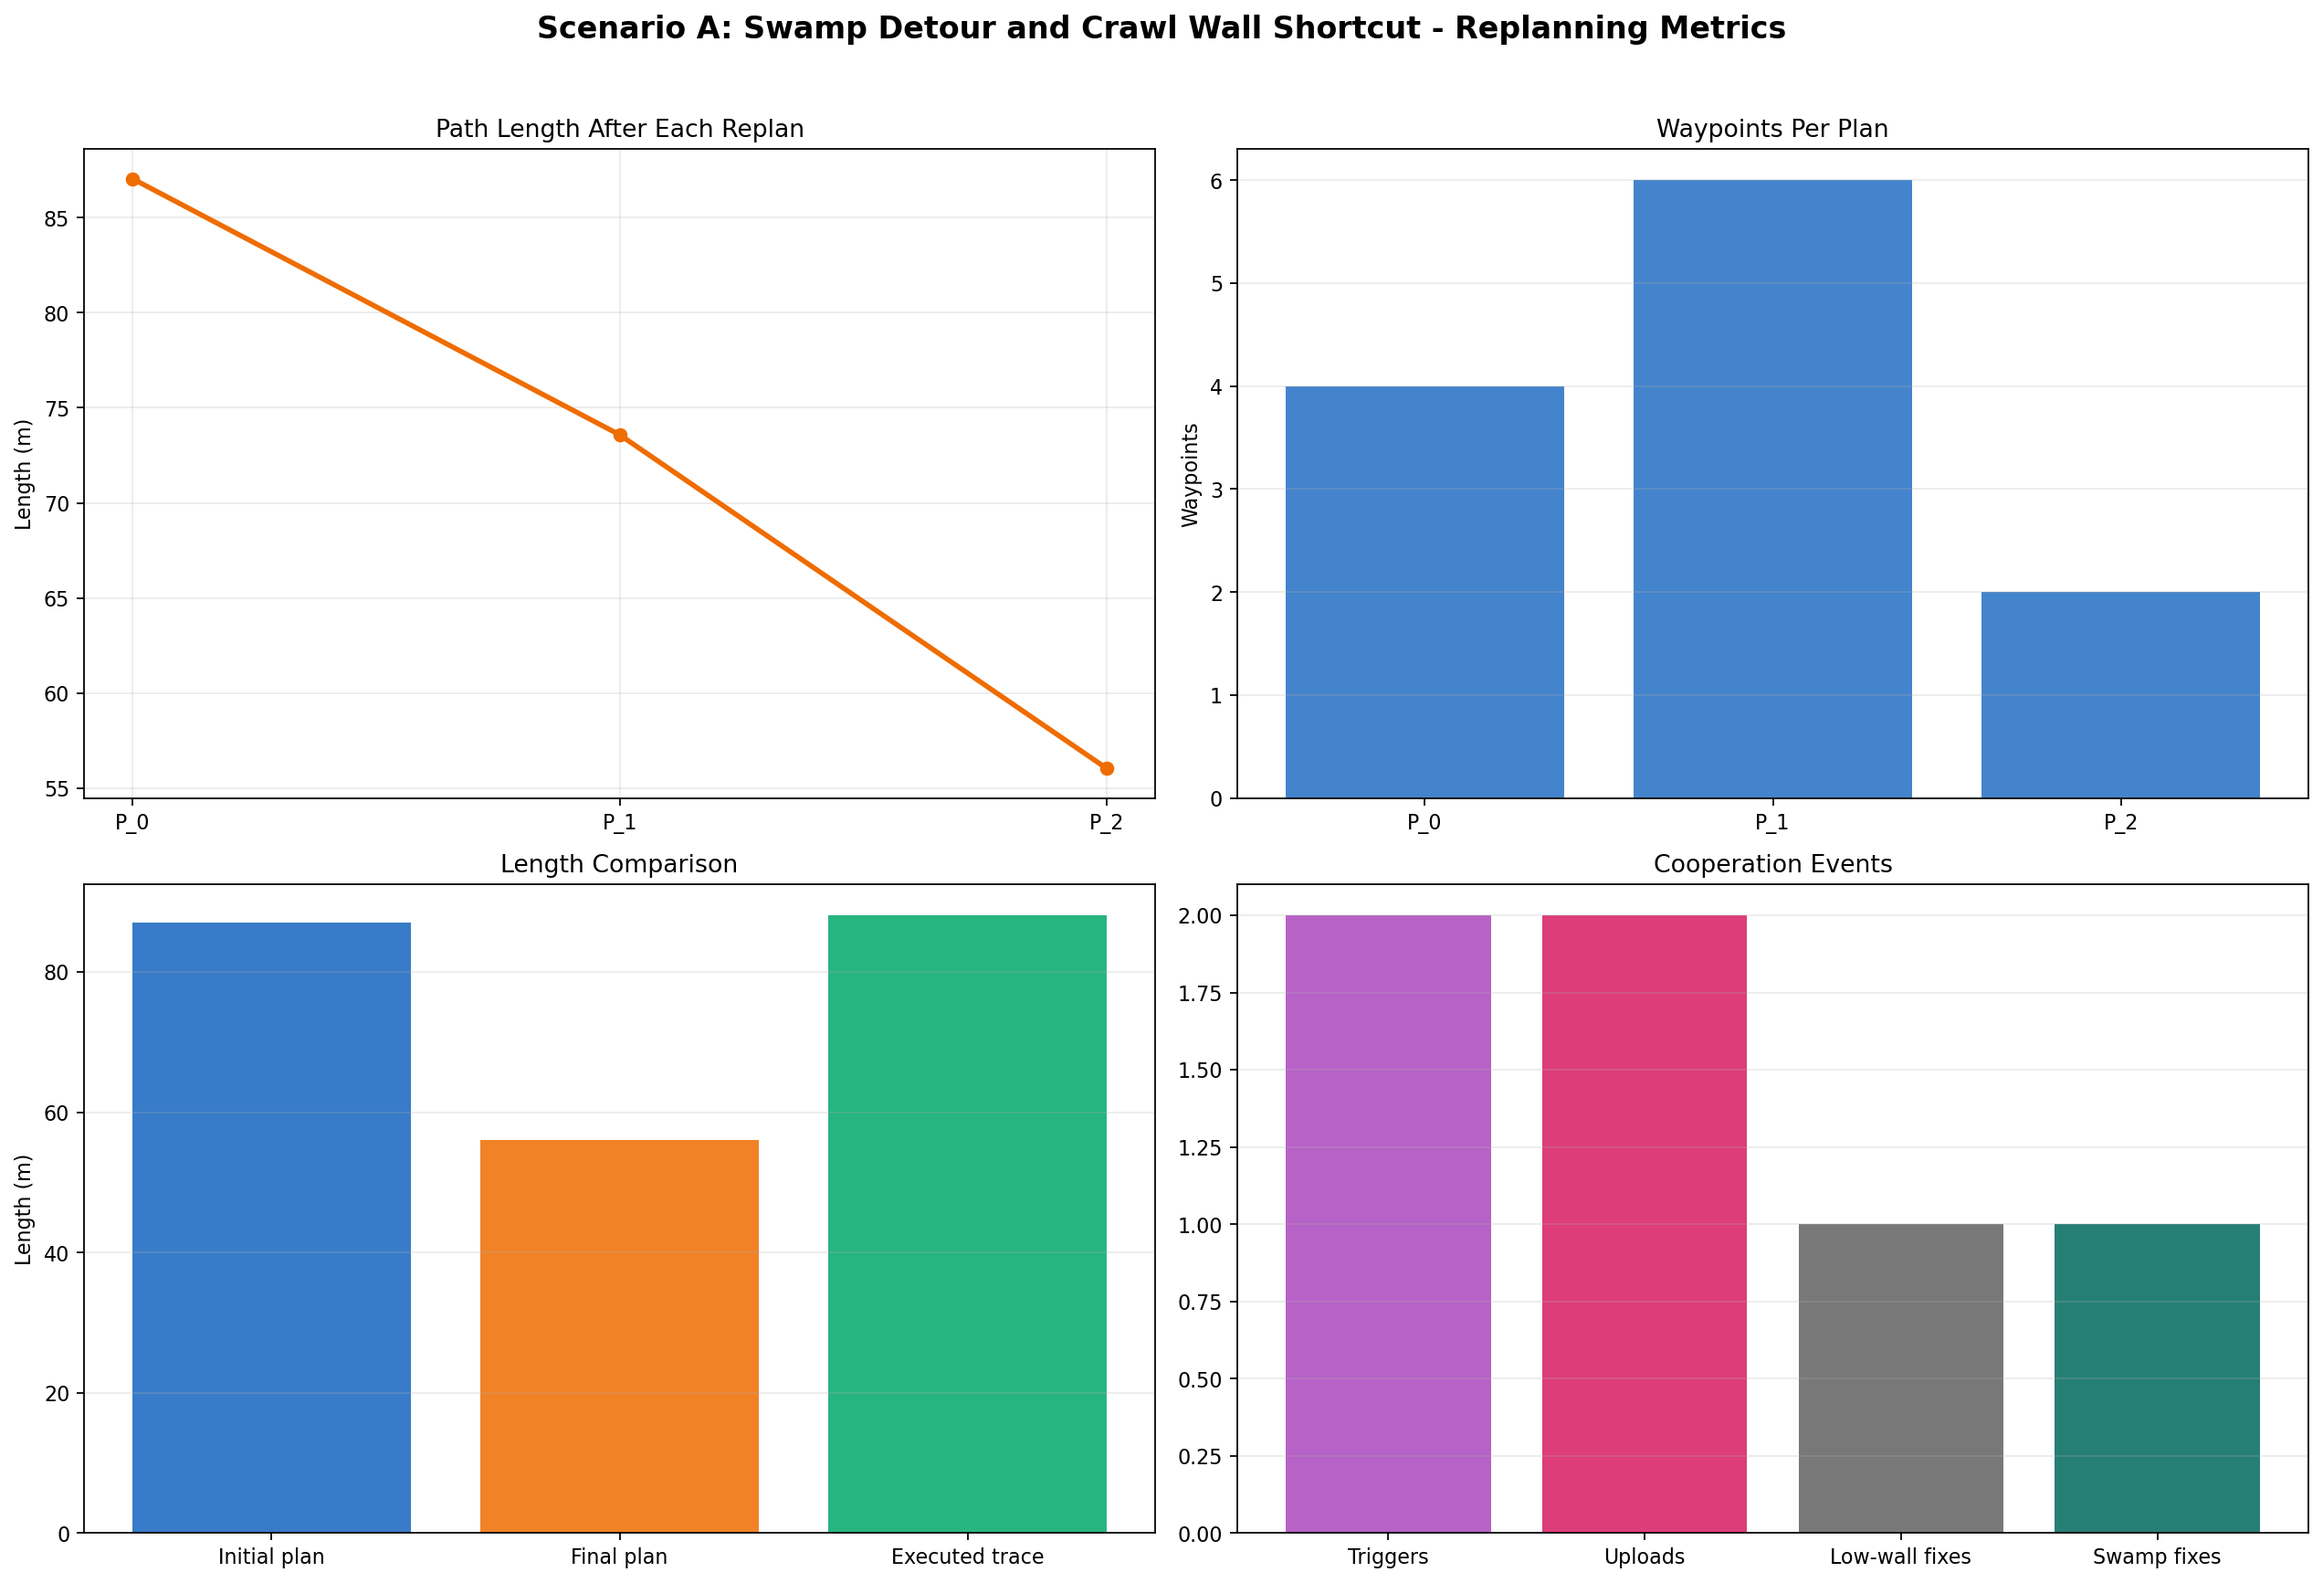
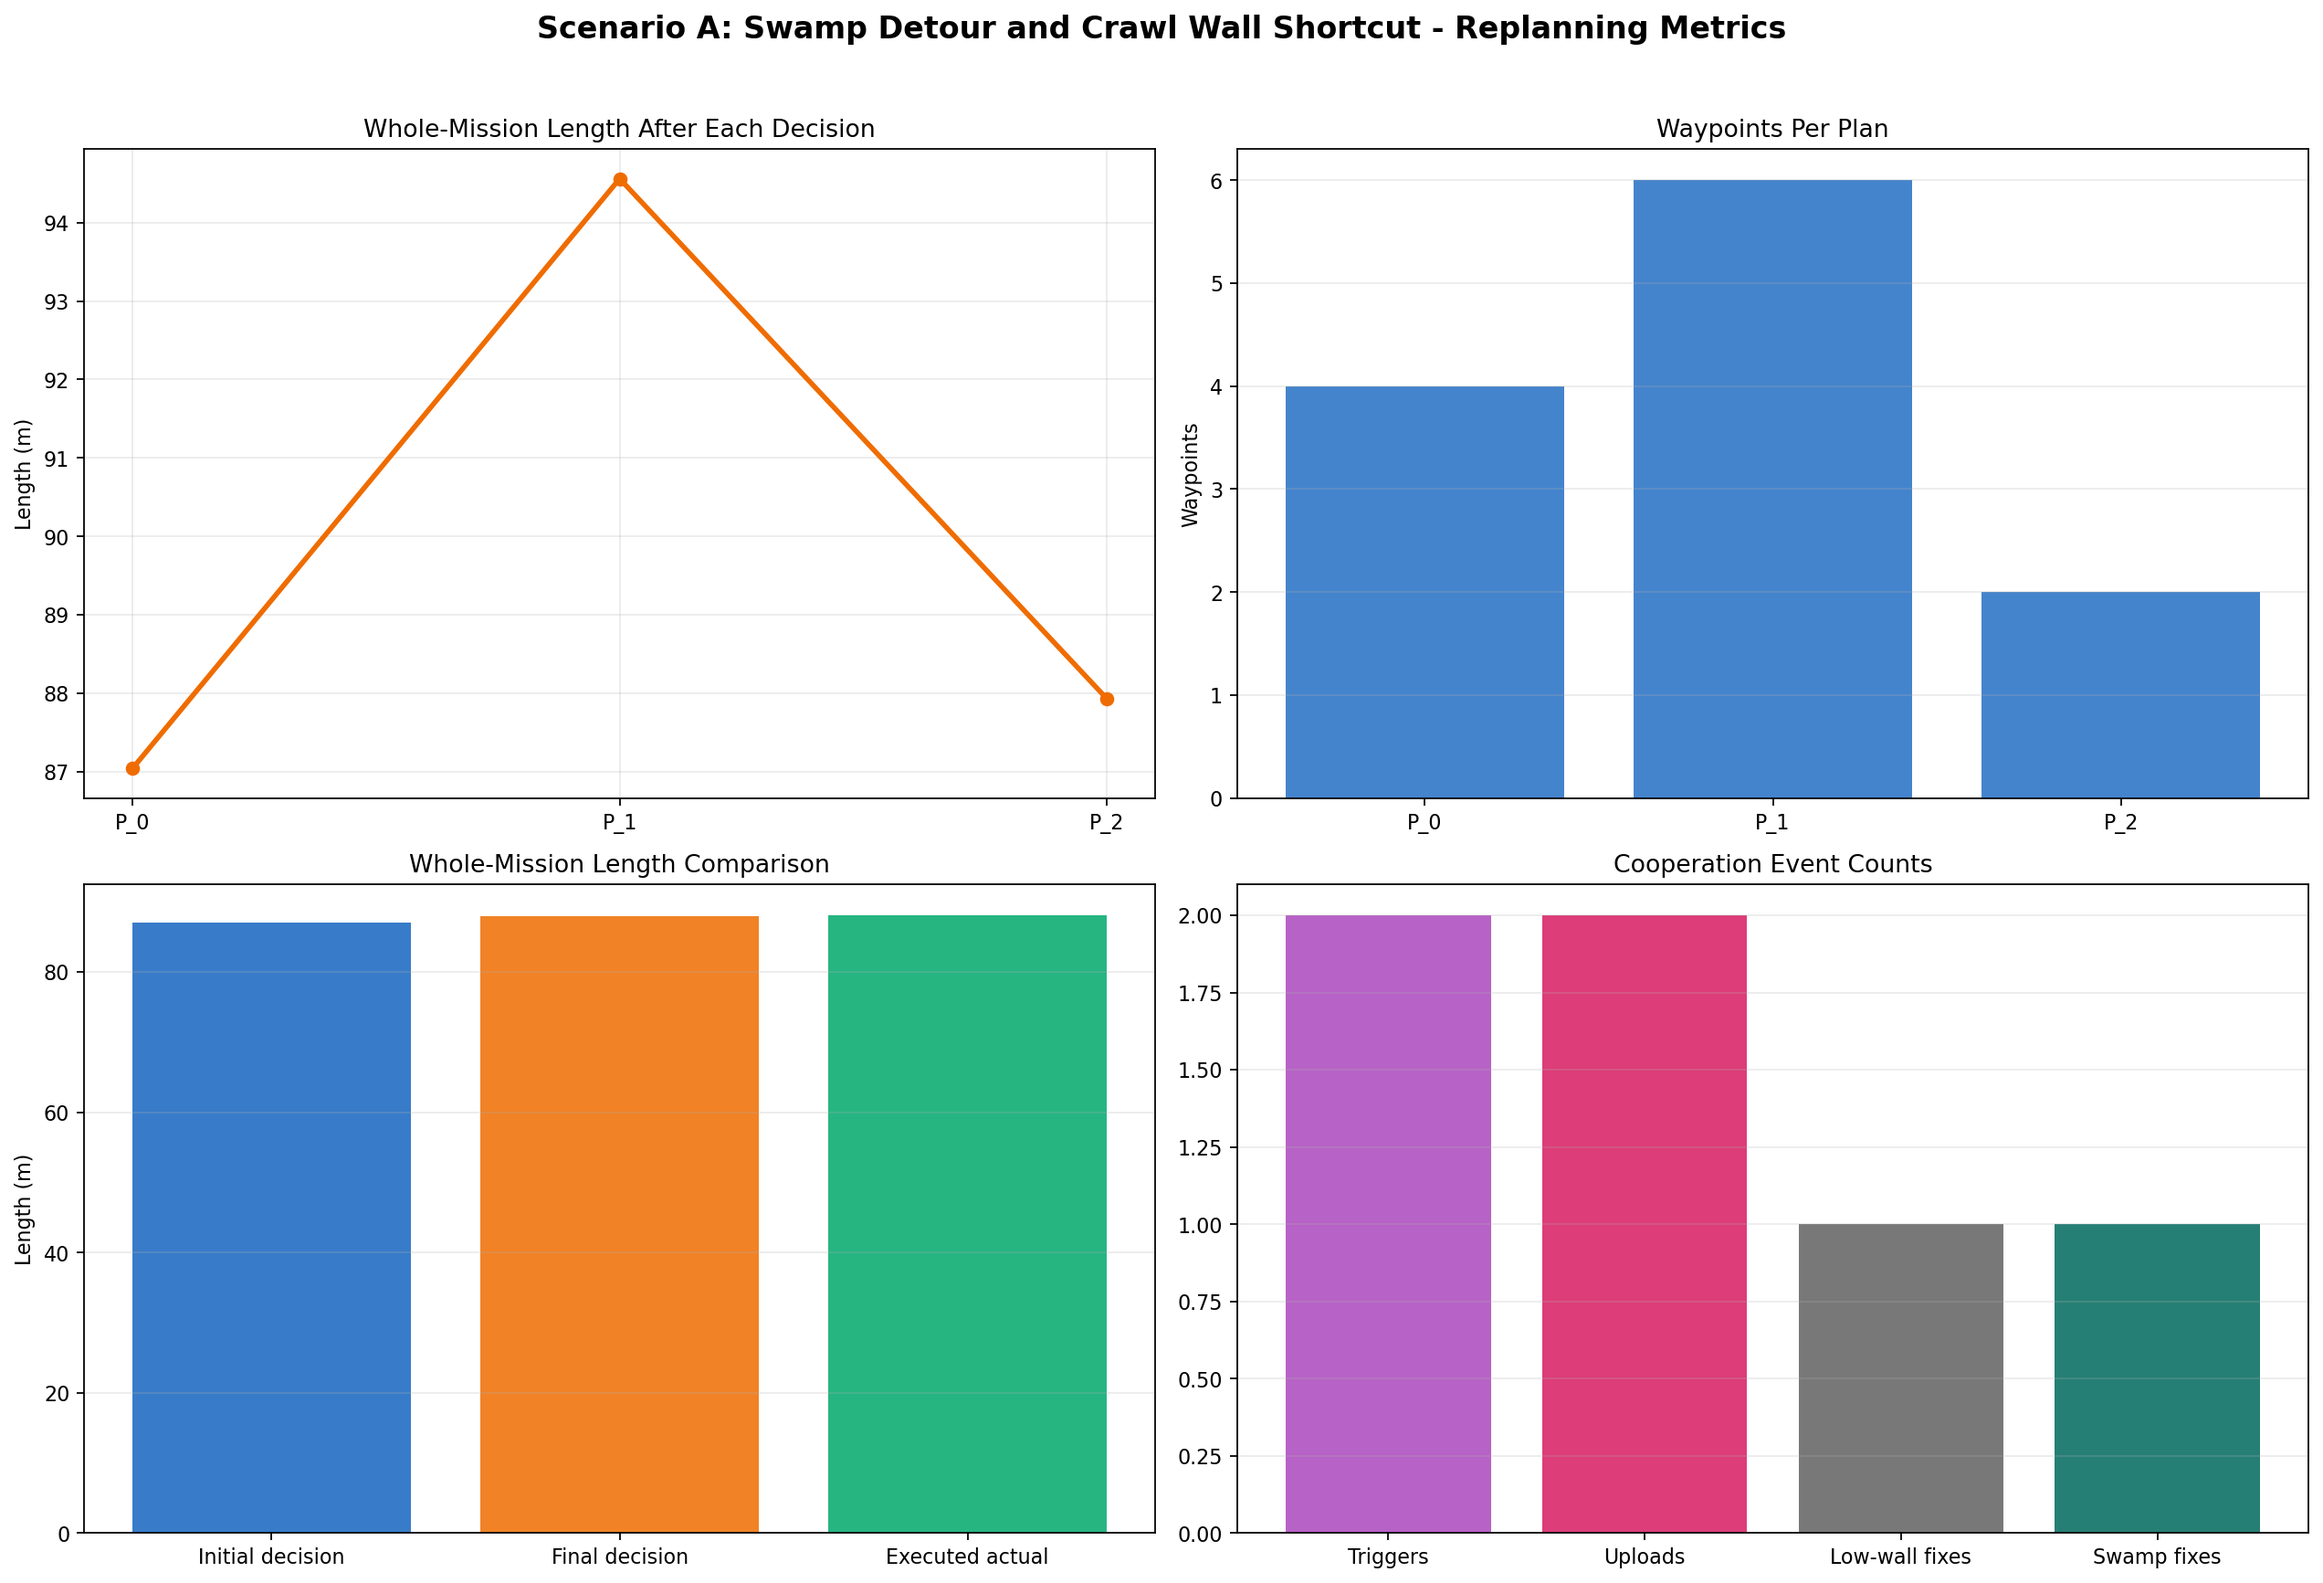
feat: report whole-mission decision lengths

diff --git a/simulation/main_path_fusion.py b/simulation/main_path_fusion.py
@@ -75,6 +75,9 @@ class PlanSnapshot:
     points: List[Dict[str, float]]
     metrics: Dict[str, float]
     obstacle_count: int
+    prefix_length: float
+    remaining_length: float
+    total_mission_length: float
 
 
 @dataclass
@@ -112,7 +115,8 @@ def plan_route(start: Tuple[float, float],
                goal: Tuple[float, float],
                obstacles: List[Dict],
                map_size: Tuple[float, float],
-               label: str) -> Optional[PlanSnapshot]:
+               label: str,
+               prefix_length: float = 0.0) -> Optional[PlanSnapshot]:
     planner = AStar([Obstacle2D.from_dict(obstacle) for obstacle in obstacles], map_size)
     start_time = time.time()
     result = planner.plan(start, goal, heuristic_method="euclidean")
@@ -131,6 +135,8 @@ def plan_route(start: Tuple[float, float],
         theoretical_distance=theoretical_distance,
         map_size=map_size,
     )
+    remaining_length = float(metrics.get('path_length', 0.0))
+    total_mission_length = round(prefix_length + remaining_length, 2)
     return PlanSnapshot(
         label=label,
         start={"x": start[0], "y": start[1]},
@@ -138,6 +144,9 @@ def plan_route(start: Tuple[float, float],
         points=result["points"],
         metrics=metrics,
         obstacle_count=len(obstacles),
+        prefix_length=round(prefix_length, 2),
+        remaining_length=remaining_length,
+        total_mission_length=total_mission_length,
     )
 
 
@@ -330,7 +339,8 @@ def simulate_scenario(config: Dict) -> ScenarioResult:
     for _ in range(max_iterations):
         planning_obstacles = build_fused_planning_obstacles(config, result.discovered_ids)
         plan_label = f"P_{len(result.plans)}"
-        snapshot = plan_route(current_position, goal, planning_obstacles, map_size, plan_label)
+        prefix_length = PathMetrics.path_length(result.executed_trace)
+        snapshot = plan_route(current_position, goal, planning_obstacles, map_size, plan_label, prefix_length=prefix_length)
         if snapshot is None:
             result.failure_reason = f"{plan_label} 规划失败"
             return result
@@ -446,11 +456,11 @@ def create_fusion_figure(result: ScenarioResult, output_path: str):
 
 def create_metrics_figure(result: ScenarioResult, output_path: str):
     plan_labels = [plan.label for plan in result.plans]
-    plan_lengths = [plan.metrics.get('path_length', 0.0) for plan in result.plans]
+    plan_lengths = [plan.total_mission_length for plan in result.plans]
     waypoints = [plan.metrics.get('num_waypoints', 0) for plan in result.plans]
     executed_length = PathMetrics.path_length(result.executed_trace)
-    initial_length = result.initial_plan.metrics.get('path_length', 0.0) if result.initial_plan else 0.0
-    final_length = result.final_plan.metrics.get('path_length', 0.0) if result.final_plan else 0.0
+    initial_length = result.initial_plan.total_mission_length if result.initial_plan else 0.0
+    final_length = result.final_plan.total_mission_length if result.final_plan else 0.0
 
     crawl_updates = 0
     swamp_updates = 0
@@ -464,7 +474,7 @@ def create_metrics_figure(result: ScenarioResult, output_path: str):
     fig, axes = plt.subplots(2, 2, figsize=(16, 11))
 
     axes[0, 0].plot(plan_labels, plan_lengths, marker='o', color=COLORS['final_path'], linewidth=2.5)
-    axes[0, 0].set_title('Path Length After Each Replan')
+    axes[0, 0].set_title('Whole-Mission Length After Each Decision')
     axes[0, 0].set_ylabel('Length (m)')
     axes[0, 0].grid(True, alpha=0.25)
 
@@ -473,11 +483,11 @@ def create_metrics_figure(result: ScenarioResult, output_path: str):
     axes[0, 1].set_ylabel('Waypoints')
     axes[0, 1].grid(True, axis='y', alpha=0.25)
 
-    compare_labels = ['Initial plan', 'Final plan', 'Executed trace']
+    compare_labels = ['Initial decision', 'Final decision', 'Executed actual']
     compare_values = [initial_length, final_length, executed_length]
     axes[1, 0].bar(compare_labels, compare_values,
                    color=[COLORS['initial_path'], COLORS['final_path'], COLORS['executed']], alpha=0.85)
-    axes[1, 0].set_title('Length Comparison')
+    axes[1, 0].set_title('Whole-Mission Length Comparison')
     axes[1, 0].set_ylabel('Length (m)')
     axes[1, 0].grid(True, axis='y', alpha=0.25)
 
@@ -485,7 +495,7 @@ def create_metrics_figure(result: ScenarioResult, output_path: str):
     event_values = [len(result.events), sum(len(event.uploaded_packets) for event in result.events), crawl_updates, swamp_updates]
     axes[1, 1].bar(event_labels, event_values,
                    color=[COLORS['circle'], COLORS['event'], COLORS['crawl_edge'], COLORS['swamp_edge']], alpha=0.85)
-    axes[1, 1].set_title('Cooperation Events')
+    axes[1, 1].set_title('Cooperation Event Counts')
     axes[1, 1].grid(True, axis='y', alpha=0.25)
 
     plt.suptitle(f"{result.config['name']} - Replanning Metrics", fontsize=15, fontweight='bold')
@@ -514,7 +524,9 @@ def write_report(result: ScenarioResult, output_path: str):
 
         file.write("=== Planning Summary ===\n")
         for plan in result.plans:
-            file.write(f"{plan.label}: length={plan.metrics.get('path_length')}m, ")
+            file.write(f"{plan.label}: whole_mission={plan.total_mission_length}m, ")
+            file.write(f"remaining={plan.remaining_length}m, ")
+            file.write(f"prefix_before_plan={plan.prefix_length}m, ")
             file.write(f"waypoints={plan.metrics.get('num_waypoints')}, ")
             file.write(f"turns={plan.metrics.get('num_turns')}, ")
             file.write(f"time={plan.metrics.get('computation_time_ms')}ms, ")
@@ -542,11 +554,13 @@ def write_report(result: ScenarioResult, output_path: str):
         if result.failure_reason:
             file.write(f"Failure Reason: {result.failure_reason}\n")
         file.write(f"Discovered semantic obstacle ids: {sorted(result.discovered_ids)}\n")
-        file.write(f"Executed trace length: {PathMetrics.path_length(result.executed_trace):.2f}m\n")
+        file.write(f"Executed actual mission length: {PathMetrics.path_length(result.executed_trace):.2f}m\n")
         if result.initial_plan:
-            file.write(f"Initial path length: {result.initial_plan.metrics.get('path_length')}m\n")
+            file.write(f"Initial whole-mission estimate: {result.initial_plan.total_mission_length}m\n")
+            file.write(f"Initial remaining length: {result.initial_plan.remaining_length}m\n")
         if result.final_plan:
-            file.write(f"Final path length: {result.final_plan.metrics.get('path_length')}m\n")
+            file.write(f"Final-decision whole-mission estimate: {result.final_plan.total_mission_length}m\n")
+            file.write(f"Final remaining length: {result.final_plan.remaining_length}m\n")
 
 
 def scenario_list(base_dir: str) -> List[Tuple[str, str]]:
@@ -583,7 +597,7 @@ def main():
         print(f"  triggers: {len(result.events)}")
         print(f"  discovered semantic obstacles: {sorted(result.discovered_ids)}")
         if result.final_plan:
-            print(f"  final path length: {result.final_plan.metrics.get('path_length')}m")
+            print(f"  final whole-mission estimate: {result.final_plan.total_mission_length}m")
         if result.failure_reason:
             print(f"  failure reason: {result.failure_reason}")
 
